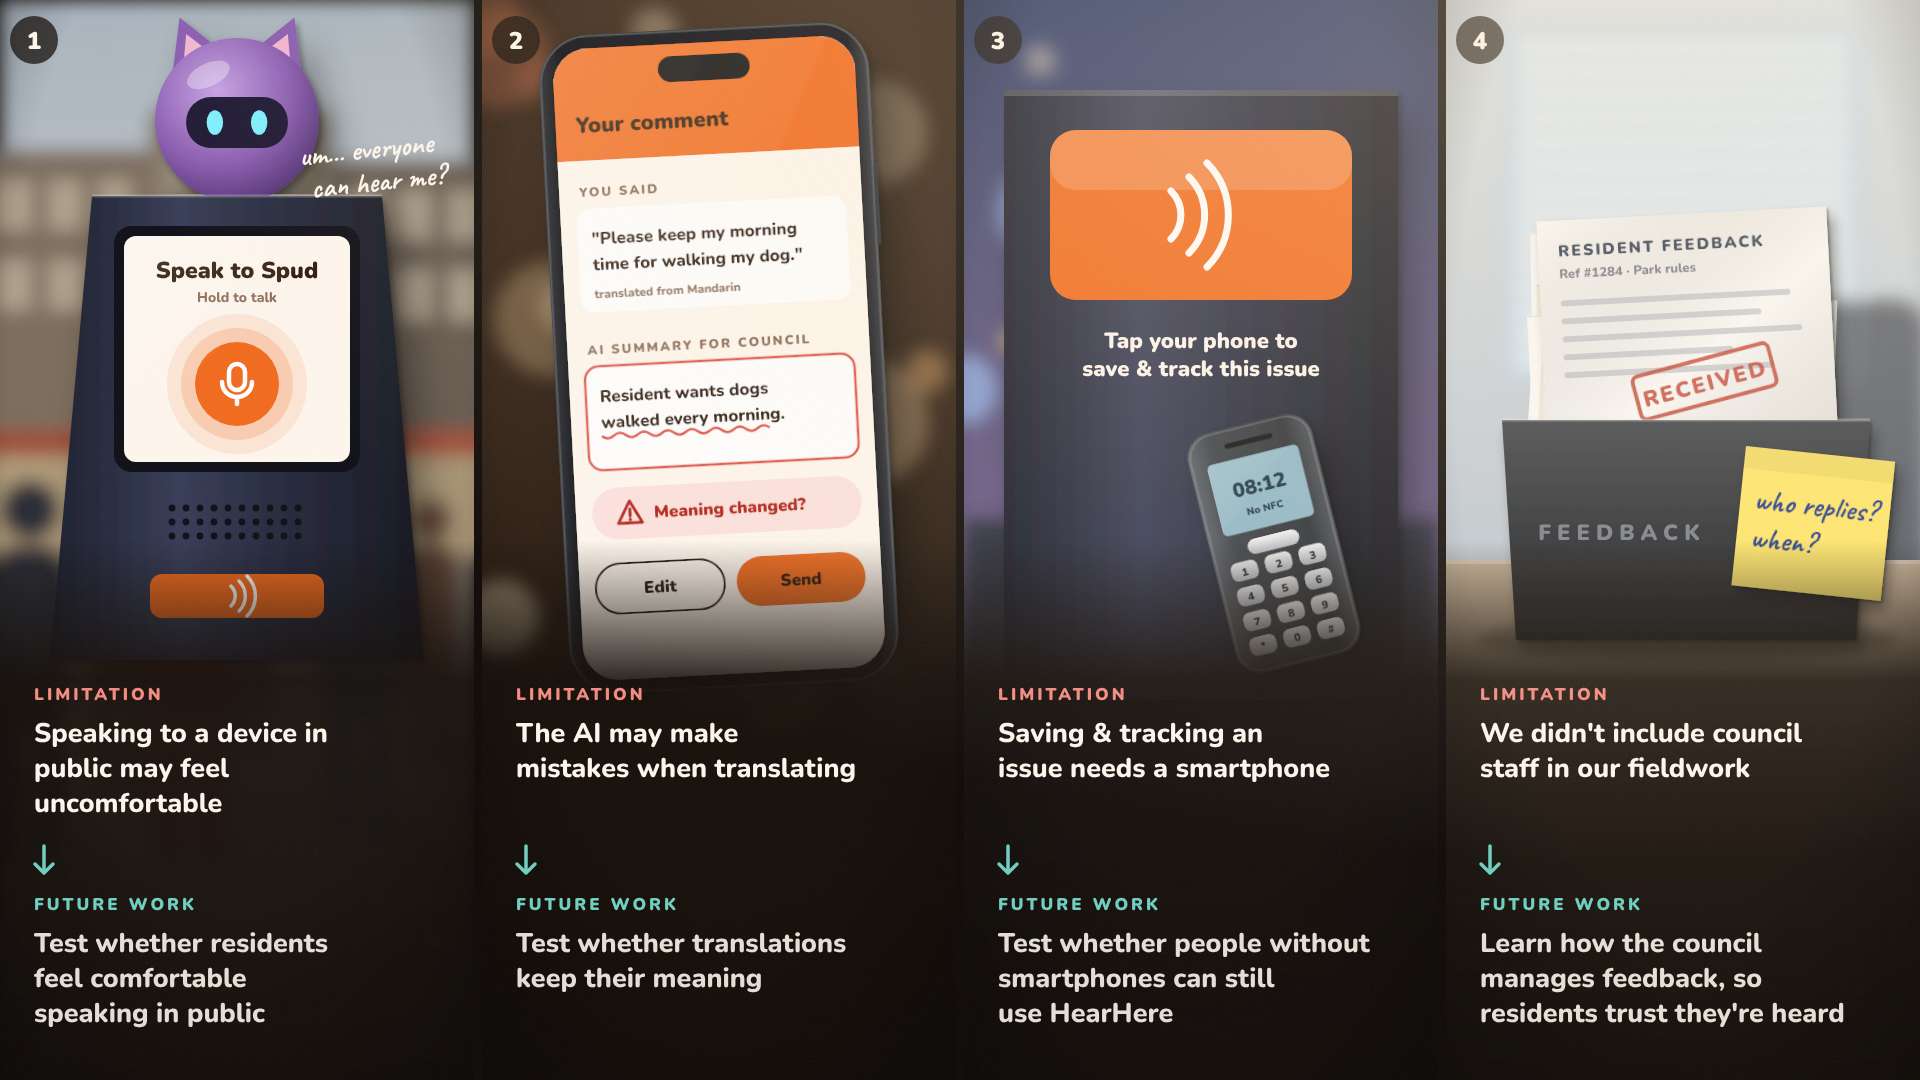
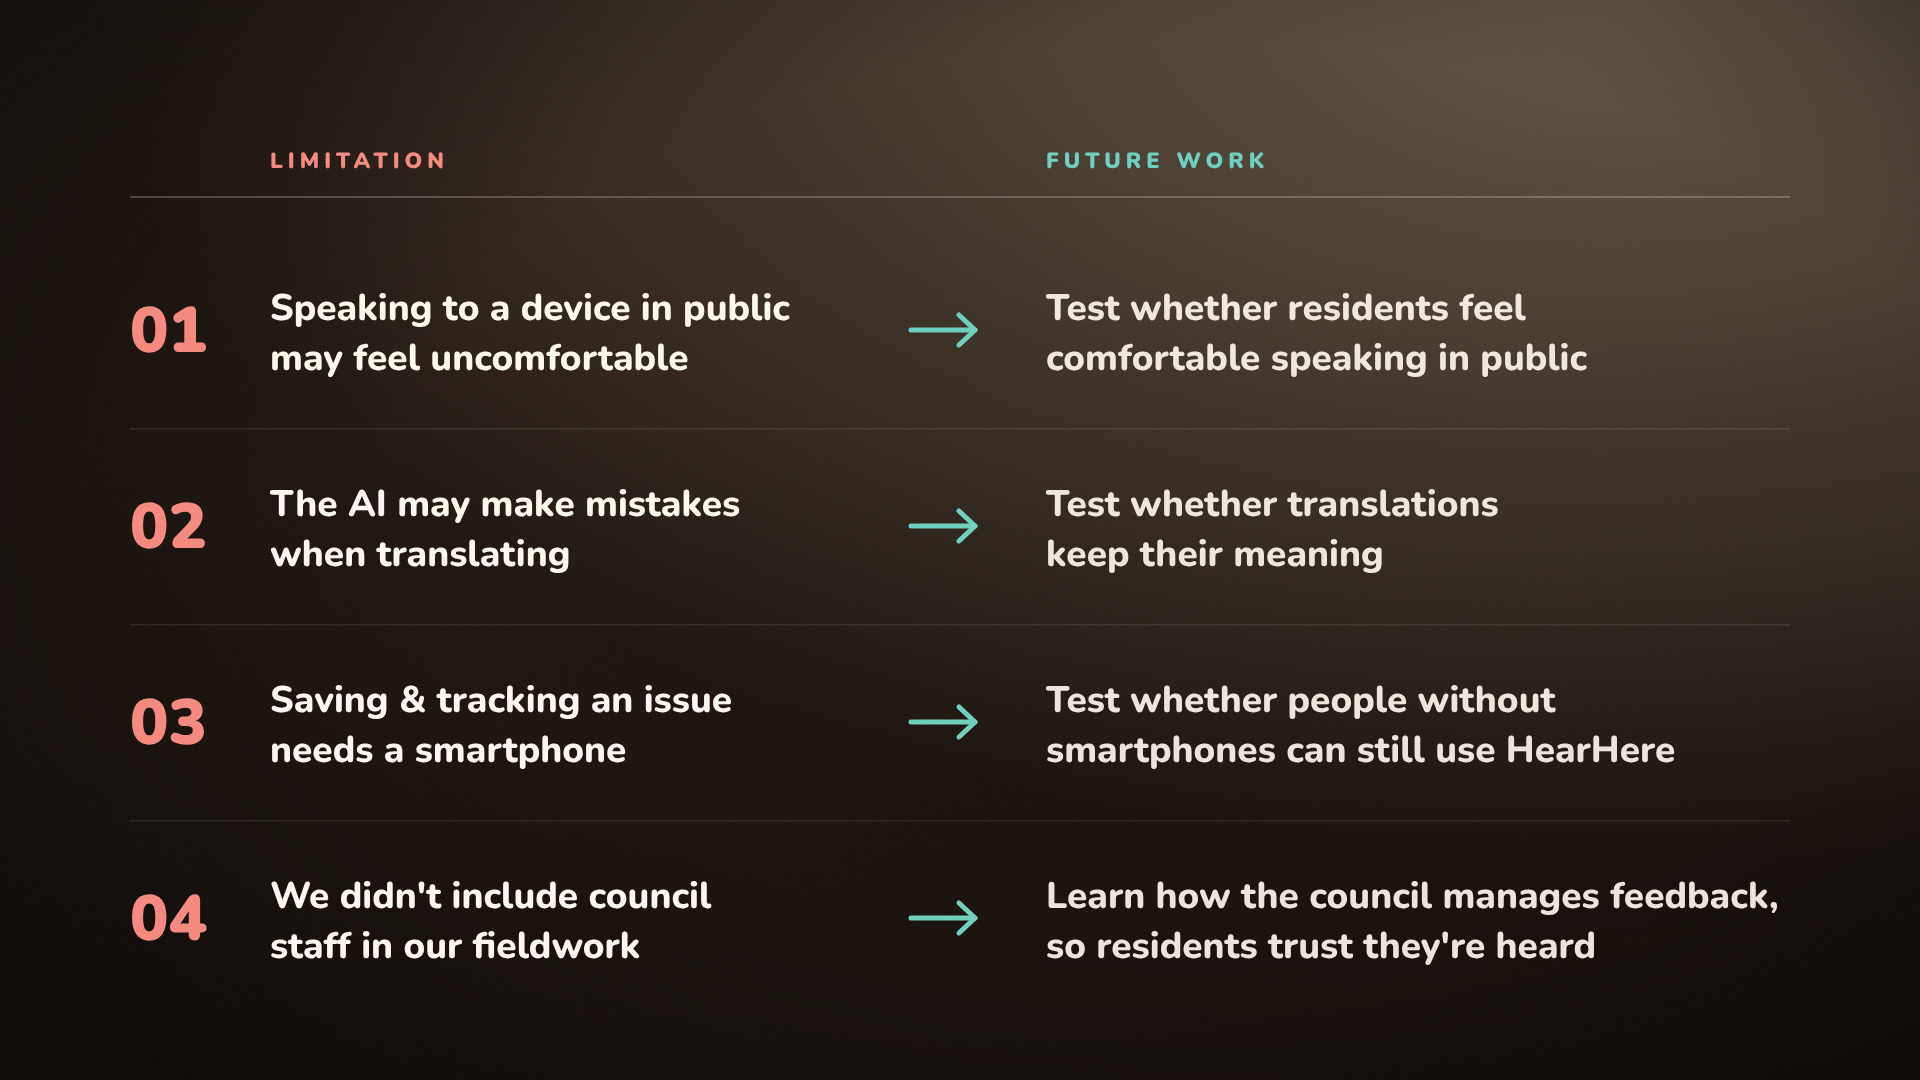
Limitations card: text only on the dark problem-card background
Claude-Session: https://claude.ai/code/session_01YLXkZryRbXP9tgZBgBqtEZ

diff --git a/video/cards/build_limits_card.js b/video/cards/build_limits_card.js
@@ -1,192 +1,47 @@
-// Full-frame (1920x1080) "Limitations & future work" card, same realistic look as the problem
-// cards: four photo-like panels, one per limitation, each captioned with the limitation and the
-// future work that answers it.  Content only, no title.
+// Full-frame (1920x1080) "Limitations & future work" card: text only, on the same dark warm
+// background as the problem cards' text panel.  Each limitation (left) points to the future work
+// that answers it (right).  No title, no pictures.
 // Build: cd video && node cards/build_limits_card.js   -> output/problem_cards/limitations_future_work.svg
 const fs = require('fs');
 const path = require('path');
-const { OUT, FONT_CSS, HAND, DEFS, EXTRA_DEFS, T, sheet, phone } = require('./build_problem_cards.js');
+const { OUT, FONT_CSS, DEFS, T } = require('./build_problem_cards.js');
 
-let seed = 5;
-const rnd = () => (seed = (seed * 16807) % 2147483647) / 2147483647;
-const PW = 474, GAP = 8;
-
+const CORAL = '#F58A80', TEAL = '#6FD0C0', CREAM = '#FFF7EE';
 const PAIRS = [
-  { lim: ['Speaking to a device in', 'public may feel', 'uncomfortable'],
-    fut: ['Test whether residents', 'feel comfortable', 'speaking in public'] },
-  { lim: ['The AI may make', 'mistakes when translating'],
+  { lim: ['Speaking to a device in public', 'may feel uncomfortable'],
+    fut: ['Test whether residents feel', 'comfortable speaking in public'] },
+  { lim: ['The AI may make mistakes', 'when translating'],
     fut: ['Test whether translations', 'keep their meaning'] },
-  { lim: ['Saving & tracking an', 'issue needs a smartphone'],
-    fut: ['Test whether people without', 'smartphones can still', 'use HearHere'] },
+  { lim: ['Saving & tracking an issue', 'needs a smartphone'],
+    fut: ['Test whether people without', 'smartphones can still use HearHere'] },
   { lim: ['We didn\'t include council', 'staff in our fieldwork'],
-    fut: ['Learn how the council', 'manages feedback, so', 'residents trust they\'re heard'] },
+    fut: ['Learn how the council manages feedback,', 'so residents trust they\'re heard'] },
 ];
 
-// blurred passer-by silhouette
-const person = (x, y, s, c) => `<g transform="translate(${x} ${y}) scale(${s})" fill="${c}"><circle cx="0" cy="-200" r="24"/><rect x="-34" y="-172" width="68" height="150" rx="28"/><rect x="-28" y="-40" width="24" height="120" rx="10"/><rect x="4" y="-40" width="24" height="120" rx="10"/></g>`;
-// the HearHere mascot head (Spud) on top of the console
-const spud = (x, y, r) => `<g transform="translate(${x} ${y})">
-  <path d="M${-r * 0.8} ${-r * 0.45} L${-r * 0.7} ${-r * 1.25} L${-r * 0.2} ${-r * 0.85}z M${r * 0.8} ${-r * 0.45} L${r * 0.7} ${-r * 1.25} L${r * 0.2} ${-r * 0.85}z" fill="#8A5BB0"/>
-  <path d="M${-r * 0.66} ${-r * 0.6} L${-r * 0.62} ${-r * 1.05} L${-r * 0.32} ${-r * 0.82}z M${r * 0.66} ${-r * 0.6} L${r * 0.62} ${-r * 1.05} L${r * 0.32} ${-r * 0.82}z" fill="#F4B6D2"/>
-  <circle r="${r}" fill="url(#spudSkin)"/>
-  <rect x="${-r * 0.62}" y="${-r * 0.28}" width="${r * 1.24}" height="${r * 0.62}" rx="${r * 0.3}" fill="#1A1530"/>
-  <ellipse cx="${-r * 0.27}" cy="${r * 0.03}" rx="${r * 0.1}" ry="${r * 0.15}" fill="#7FF0FF"/><ellipse cx="${r * 0.27}" cy="${r * 0.03}" rx="${r * 0.1}" ry="${r * 0.15}" fill="#7FF0FF"/>
-  <ellipse cx="${-r * 0.35}" cy="${-r * 0.55}" rx="${r * 0.28}" ry="${r * 0.14}" fill="#fff" opacity="0.35" transform="rotate(-25 ${-r * 0.35} ${-r * 0.55})"/></g>`;
-
-// 1. speaking in public: the pillar's talk screen, a busy street behind
-function panel1() {
-  seed = 11;
-  const shops = [[-20, 150, 170, '#8C7B6B'], [150, 110, 180, '#A2927F'], [330, 160, 170, '#6F6359']].map(([x, y, w, c]) =>
-    `<rect x="${x}" y="${y}" width="${w}" height="${560 - y}" fill="${c}"/>${Array.from({ length: 6 }, (_, k) => `<rect x="${x + 18 + (k % 3) * 50}" y="${y + 30 + Math.floor(k / 3) * 80}" width="34" height="50" fill="#F1E3C6" opacity="0.6"/>`).join('')}<rect x="${x}" y="430" width="${w}" height="26" fill="${['#B5543C', '#2F6B5E', '#C9A04A'][Math.floor(rnd() * 3)]}"/><rect x="${x + 10}" y="456" width="${w - 20}" height="104" fill="#FFE2A8" opacity="0.55"/>`).join('');
-  const crowd = [[30, 760, 1.25, '#2B2F3A'], [120, 720, 1.05, '#5A4A42'], [360, 750, 1.2, '#3E5A7A'], [430, 700, 0.9, '#6B4E3D'], [250, 690, 0.8, '#4A4F5C'], [190, 760, 1.3, '#7A3E3E']]
-    .map(([x, y, s, c]) => person(x, y, s, c)).join('');
-  const grille = Array.from({ length: 30 }, (_, k) => `<circle cx="${172 + (k % 10) * 14}" cy="${508 + Math.floor(k / 10) * 14}" r="3.4" fill="#0B0D14"/>`).join('');
-  return `<g filter="url(#blurBg)"><rect width="${PW}" height="560" fill="url(#overcast)"/>${shops}<rect y="560" width="${PW}" height="520" fill="url(#pave)"/>${crowd}</g>
-  <rect width="${PW}" height="1080" fill="#1A1410" opacity="0.15"/>
-  <g filter="url(#shadow)">
-    ${spud(237, 120, 82)}
-    <path d="M92 196 H382 L424 660 H50z" fill="url(#console)"/>
-    <path d="M92 196 H382" stroke="#fff" stroke-opacity="0.25" stroke-width="3"/>
-    <rect x="114" y="226" width="246" height="246" rx="18" fill="#0B0D14"/>
-    <rect x="124" y="236" width="226" height="226" rx="12" fill="#FFF7EE"/>
-    ${T(237, 278, 'Speak to Spud', { size: 23, w: 900, fill: '#2B1708', anchor: 'middle' })}
-    ${T(237, 302, 'Hold to talk', { size: 14, w: 800, fill: '#8A6A55', anchor: 'middle' })}
-    <circle cx="237" cy="384" r="70" fill="#F26B1D" opacity="0.12"/><circle cx="237" cy="384" r="56" fill="#F26B1D" opacity="0.2"/>
-    <circle cx="237" cy="384" r="42" fill="#F26B1D"/>
-    <g transform="translate(237 384)" fill="none" stroke="#fff" stroke-width="4.5" stroke-linecap="round"><rect x="-8" y="-20" width="16" height="26" rx="8"/><path d="M-15 -2 a15 15 0 0 0 30 0 M0 13 v7"/></g>
-    <rect x="124" y="236" width="226" height="226" rx="12" fill="url(#glass)"/>
-    ${grille}
-    <rect x="150" y="574" width="174" height="44" rx="12" fill="#F26B1D"/>
-    <g transform="translate(237 596)" fill="none" stroke="#fff" stroke-width="3.5" stroke-linecap="round"><path d="M-6 -10 a14 14 0 0 1 0 20 M2 -15 a21 21 0 0 1 0 30 M10 -20 a28 28 0 0 1 0 40"/></g>
-  </g>
-  ${T(300, 166, 'um... everyone', { ff: HAND, size: 29, w: 700, fill: '#FFF7EE', tr: 'rotate(-6 300 166)' })}
-  ${T(312, 198, 'can hear me?', { ff: HAND, size: 29, w: 700, fill: '#FFF7EE', tr: 'rotate(-6 312 198)' })}`;
-}
-
-// 2. translation mistakes: the AI summary changes what the resident meant
-function panel2() {
-  seed = 23;
-  const bokeh = Array.from({ length: 22 }, () => `<circle cx="${rnd() * PW}" cy="${rnd() * 700}" r="${20 + rnd() * 50}" fill="${['#F6B36B', '#FFD9A0', '#E07A4F', '#FFF0C8'][Math.floor(rnd() * 4)]}" opacity="${0.15 + rnd() * 0.3}"/>`).join('');
-  const ph = phone(72, 28, 330, 660, -3, (w, h) => `
-    <rect width="${w}" height="${h}" fill="#FFF7EE"/>
-    <rect width="${w}" height="112" fill="#F26B1D"/>
-    ${T(20, 84, 'Your comment', { size: 22, w: 900, fill: '#2B1708' })}
-    ${T(20, 148, 'YOU SAID', { size: 13, w: 900, fill: '#8A6A55', ls: 2 })}
-    <rect x="16" y="160" width="${w - 32}" height="104" rx="14" fill="#fff"/>
-    ${T(30, 196, '"Please keep my morning', { size: 17, w: 800, fill: '#2B1708' })}
-    ${T(30, 222, 'time for walking my dog."', { size: 17, w: 800, fill: '#2B1708' })}
-    ${T(30, 250, 'translated from Mandarin', { size: 12, w: 800, fill: '#8A6A55' })}
-    ${T(20, 306, 'AI SUMMARY FOR COUNCIL', { size: 13, w: 900, fill: '#8A6A55', ls: 2 })}
-    <rect x="16" y="318" width="${w - 32}" height="104" rx="14" fill="#fff" stroke="#E0544B" stroke-width="2.5"/>
-    ${T(30, 354, 'Resident wants dogs', { size: 17, w: 800, fill: '#2B1708' })}
-    ${T(30, 380, 'walked every morning.', { size: 17, w: 800, fill: '#2B1708' })}
-    <path d="M30 388 q6 5 12 0 t12 0 t12 0 t12 0 t12 0 t12 0 t12 0 t12 0 t12 0 t12 0 t12 0 t12 0 t12 0 t12 0" fill="none" stroke="#E0544B" stroke-width="2.5"/>
-    <g transform="translate(16 440)"><rect width="${w - 32}" height="52" rx="26" fill="#FDE2DF"/>
-      <path d="M26 36 L38 14 L50 36z" fill="none" stroke="#B42318" stroke-width="3" stroke-linejoin="round"/><path d="M38 22 v7 M38 32 v1" stroke="#B42318" stroke-width="3" stroke-linecap="round"/>
-      ${T(62, 32, 'Meaning changed?', { size: 17, w: 900, fill: '#B42318' })}</g>
-    <rect x="16" y="516" width="${(w - 44) / 2}" height="50" rx="25" fill="none" stroke="#2B1708" stroke-width="2"/>${T(16 + (w - 44) / 4, 547, 'Edit', { size: 17, w: 900, fill: '#2B1708', anchor: 'middle' })}
-    <rect x="${28 + (w - 44) / 2}" y="516" width="${(w - 44) / 2}" height="50" rx="25" fill="#F26B1D"/>${T(28 + (w - 44) * 0.75, 547, 'Send', { size: 17, w: 900, fill: '#2B1708', anchor: 'middle' })}`);
-  return `<rect width="${PW}" height="1080" fill="url(#cafe)"/><g filter="url(#blurBg)">${bokeh}</g>${ph}`;
-}
-
-// 3. no smartphone: the NFC pad next to an old keypad phone
-function panel3() {
-  seed = 37;
-  const lights = Array.from({ length: 14 }, () => `<circle cx="${rnd() * PW}" cy="${60 + rnd() * 380}" r="${10 + rnd() * 26}" fill="${['#FFD38A', '#FFE9C2', '#9EC5FF'][Math.floor(rnd() * 3)]}" opacity="${0.35 + rnd() * 0.4}"/>`).join('');
-  const keys = Array.from({ length: 12 }, (_, k) => {
-    const cx = 34 + (k % 3) * 41, cy = 168 + Math.floor(k / 3) * 30;
-    return `<rect x="${cx - 16}" y="${cy - 11}" width="32" height="22" rx="8" fill="url(#key)"/>${T(cx, cy + 6, '123456789*0#'[k], { size: 13, w: 900, fill: '#1F2937', anchor: 'middle' })}`;
-  }).join('');
-  return `<rect width="${PW}" height="1080" fill="url(#dusk3)"/><g filter="url(#blurBg)">${lights}<rect y="520" width="${PW}" height="560" fill="#2A2F3E"/></g>
-  <g filter="url(#shadow)">
-    <path d="M40 90 H434 V700 H40z" fill="url(#console)"/>
-    <rect x="40" y="90" width="394" height="6" fill="#fff" opacity="0.18"/>
-    <rect x="86" y="130" width="302" height="170" rx="26" fill="#F26B1D"/>
-    <rect x="86" y="130" width="302" height="60" rx="26" fill="#fff" opacity="0.18"/>
-    <g transform="translate(237 215)" fill="none" stroke="#fff" stroke-width="7" stroke-linecap="round"><path d="M-30 -24 a34 34 0 0 1 0 48 M-12 -38 a54 54 0 0 1 0 76 M6 -52 a74 74 0 0 1 0 104"/></g>
-    ${T(237, 348, 'Tap your phone to', { size: 22, w: 900, fill: '#FFF7EE', anchor: 'middle' })}
-    ${T(237, 376, 'save & track this issue', { size: 22, w: 900, fill: '#FFF7EE', anchor: 'middle' })}
-  </g>
-  <g transform="translate(250 418) rotate(-14 70 140) scale(0.85)" filter="url(#shadow)">
-    <rect width="150" height="290" rx="30" fill="url(#oldPhone)"/>
-    <rect x="3" y="3" width="144" height="284" rx="28" fill="none" stroke="#fff" stroke-opacity="0.18" stroke-width="2"/>
-    <rect x="46" y="18" width="58" height="6" rx="3" fill="#111"/>
-    <rect x="20" y="38" width="110" height="86" rx="6" fill="#8FB8C9"/>
-    <rect x="20" y="38" width="110" height="86" rx="6" fill="url(#glass)"/>
-    ${T(75, 82, '08:12', { size: 24, w: 900, fill: '#173042', anchor: 'middle' })}${T(75, 106, 'No NFC', { size: 12, w: 900, fill: '#173042', anchor: 'middle' })}
-    <rect x="44" y="134" width="62" height="18" rx="9" fill="url(#key)"/>
-    ${keys}
-  </g>`;
-}
-
-// 4. council side: a tray overflowing with resident feedback
-function panel4() {
-  const sheets = Array.from({ length: 9 }, (_, k) => `<g transform="translate(${92 + (k % 3) * 6 - 6} ${230 + k * 13}) rotate(${(k % 2 ? 1 : -1) * (1 + k % 4)} 150 100)"><rect width="290" height="230" fill="${k % 3 === 1 ? '#F6F1E4' : '#FFFFFF'}" filter="url(#paper)"/><rect width="290" height="1.5" fill="#000" opacity="0.08"/></g>`).join('');
-  const top = `<g transform="translate(96 214) rotate(-3 145 110)" filter="url(#shadowLow)">${sheet(290, 220, '#FFFFFF', `
-      ${T(20, 36, 'RESIDENT FEEDBACK', { size: 16, w: 900, fill: '#22344D', ls: 2 })}
-      ${T(20, 58, 'Ref #1284 · Park rules', { size: 13, w: 800, fill: '#6B7280' })}
-      ${[80, 98, 116, 134, 152].map((y, i) => `<rect x="20" y="${y}" width="${[230, 200, 240, 170, 210][i]}" height="6" rx="3" fill="#9CA3AF" opacity="0.5"/>`).join('')}
-      <g transform="translate(160 170) rotate(-12)"><rect x="-70" y="-24" width="140" height="44" rx="6" fill="none" stroke="#C0392B" stroke-width="4" opacity="0.85"/>${T(0, 8, 'RECEIVED', { size: 22, w: 900, fill: '#C0392B', anchor: 'middle', ls: 2, op: 0.85 })}</g>`)}</g>`;
-  const blinds = Array.from({ length: 14 }, (_, k) => `<rect x="70" y="${40 + k * 24}" width="334" height="14" fill="#FFFFFF" opacity="0.75"/>`).join('');
-  return `<rect width="${PW}" height="1080" fill="url(#office)"/>
-  <g filter="url(#blurBg)"><rect x="60" y="30" width="354" height="350" fill="#BFD6EA"/>${blinds}<rect x="320" y="300" width="160" height="300" rx="30" fill="#2B2F3A" opacity="0.7"/></g>
-  <rect y="560" width="${PW}" height="520" fill="url(#deskTop)"/>
-  <rect y="560" width="${PW}" height="4" fill="#fff" opacity="0.3"/>
-  <ellipse cx="240" cy="640" rx="210" ry="22" fill="#000" opacity="0.3" filter="url(#blur6)"/>
-  ${sheets}${top}
-  <g filter="url(#shadowLow)"><path d="M56 420 H424 L410 640 H70z" fill="url(#tray)"/></g>
-  <path d="M56 420 H424" stroke="#fff" stroke-opacity="0.3" stroke-width="3"/>
-  ${T(176, 540, 'FEEDBACK', { size: 22, w: 900, fill: '#9CA3AF', anchor: 'middle', ls: 6, op: 0.7 })}
-  <g transform="translate(300 446) rotate(6)" filter="url(#shadowLow)"><rect width="150" height="140" fill="#FFE768"/><rect width="150" height="22" fill="#000" opacity="0.05"/>
-    ${T(14, 62, 'who replies?', { ff: HAND, size: 30, w: 700, fill: '#1E3A8A' })}${T(14, 100, 'when?', { ff: HAND, size: 30, w: 700, fill: '#1E3A8A' })}</g>`;
-}
-
-function caption(p, i) {
-  const lh = 35;
-  let y = 700;
-  let out = `${T(34, y, 'LIMITATION', { size: 17, w: 900, fill: '#F58A80', ls: 3 })}`;
-  y += 42;
-  out += p.lim.map((l, k) => T(34, y + k * lh, l, { size: 27, w: 800, fill: '#FFF7EE' })).join('');
-  y += 2 * lh + 34;   // same height for every panel so the future-work rows line up
-  out += `<g fill="none" stroke="#6FD0C0" stroke-width="3.5" stroke-linecap="round" stroke-linejoin="round"><path d="M44 ${y} v26"/><path d="M35 ${y + 18} l9 9 l9 -9"/></g>`;
-  y += 64;
-  out += T(34, y, 'FUTURE WORK', { size: 17, w: 900, fill: '#6FD0C0', ls: 3 });
-  y += 42;
-  out += p.fut.map((l, k) => T(34, y + k * lh, l, { size: 27, w: 800, fill: '#FFF7EE', op: 0.9 })).join('');
-  return `<g transform="translate(34 40)"><circle r="24" fill="#140D08" opacity="0.75"/>${T(0, 9, String(i + 1), { size: 24, w: 900, fill: '#FFF7EE', anchor: 'middle' })}</g>${out}`;
-}
-
 function build() {
-  const scenes = [panel1, panel2, panel3, panel4];
-  const panels = PAIRS.map((p, i) => {
-    const x = i * (PW + GAP);
-    return `<svg x="${x}" y="0" width="${PW}" height="1080" viewBox="0 0 ${PW} 1080" overflow="hidden">
-      ${scenes[i]()}
-      <rect width="${PW}" height="1080" fill="url(#capShade)"/>
-      <rect width="${PW}" height="1080" fill="url(#panelVig)"/>
-      ${caption(p, i)}</svg>`;
+  const X_NUM = 130, X_LIM = 270, X_ARR = 945, X_FUT = 1046, ROW = 196, Y0 = 232;
+  const head = `${T(X_LIM, 168, 'LIMITATION', { size: 22, w: 900, fill: CORAL, ls: 5 })}
+    ${T(X_FUT, 168, 'FUTURE WORK', { size: 22, w: 900, fill: TEAL, ls: 5 })}
+    <rect x="${X_NUM}" y="196" width="${1920 - 2 * X_NUM}" height="2" fill="${CREAM}" opacity="0.22"/>`;
+  const rows = PAIRS.map((p, i) => {
+    const top = Y0 + i * ROW, mid = top + ROW / 2;
+    const lines = (ls, x, op) => ls.map((l, k) => T(x, mid - 10 + k * 50, l, { size: 37, w: 800, fill: CREAM, op })).join('');
+    return `${T(X_NUM, mid + 22, String(i + 1).padStart(2, '0'), { size: 64, w: 900, fill: CORAL })}
+      ${lines(p.lim, X_LIM, 1)}
+      <g fill="none" stroke="${TEAL}" stroke-width="5" stroke-linecap="round" stroke-linejoin="round"><path d="M${X_ARR - 34} ${mid} H${X_ARR + 30}"/><path d="M${X_ARR + 14} ${mid - 15} L${X_ARR + 30} ${mid} L${X_ARR + 14} ${mid + 15}"/></g>
+      ${lines(p.fut, X_FUT, 0.92)}
+      ${i < PAIRS.length - 1 ? `<rect x="${X_NUM}" y="${top + ROW}" width="${1920 - 2 * X_NUM}" height="1.5" fill="${CREAM}" opacity="0.1"/>` : ''}`;
   }).join('');
   return `<svg xmlns="http://www.w3.org/2000/svg" width="1920" height="1080" viewBox="0 0 1920 1080">
 <title>Limitations and future work</title>
-<defs><style>${FONT_CSS}</style>${DEFS}${EXTRA_DEFS}
-<filter id="blurBg" x="-10%" y="-10%" width="120%" height="120%"><feGaussianBlur stdDeviation="9"/></filter>
-<linearGradient id="capShade" x1="0" y1="0" x2="0" y2="1"><stop offset="0.5" stop-color="#140D08" stop-opacity="0"/><stop offset="0.63" stop-color="#140D08" stop-opacity="0.9"/><stop offset="1" stop-color="#140D08" stop-opacity="0.97"/></linearGradient>
-<radialGradient id="panelVig" cx="50%" cy="35%" r="80%"><stop offset="0.6" stop-color="#000" stop-opacity="0"/><stop offset="1" stop-color="#000" stop-opacity="0.45"/></radialGradient>
-<linearGradient id="overcast" x1="0" y1="0" x2="0" y2="1"><stop offset="0" stop-color="#C3D1DE"/><stop offset="1" stop-color="#EEF2F5"/></linearGradient>
-<linearGradient id="pave" x1="0" y1="0" x2="0" y2="1"><stop offset="0" stop-color="#A39D95"/><stop offset="1" stop-color="#5E5A55"/></linearGradient>
-<linearGradient id="console" x1="0" y1="0" x2="1" y2="0"><stop offset="0" stop-color="#1A1D2B"/><stop offset="0.35" stop-color="#363B55"/><stop offset="0.6" stop-color="#262A3E"/><stop offset="1" stop-color="#14161F"/></linearGradient>
-<radialGradient id="spudSkin" cx="38%" cy="32%" r="75%"><stop offset="0" stop-color="#C7A2E6"/><stop offset="0.6" stop-color="#8A5BB0"/><stop offset="1" stop-color="#4E2D6E"/></radialGradient>
-<linearGradient id="cafe" x1="0" y1="0" x2="0" y2="1"><stop offset="0" stop-color="#3A2618"/><stop offset="1" stop-color="#1C120B"/></linearGradient>
-<linearGradient id="dusk3" x1="0" y1="0" x2="0" y2="1"><stop offset="0" stop-color="#2C3A66"/><stop offset="0.5" stop-color="#6A5A86"/><stop offset="1" stop-color="#2A2F3E"/></linearGradient>
-<linearGradient id="oldPhone" x1="0" x2="1"><stop offset="0" stop-color="#5B616B"/><stop offset="0.2" stop-color="#3A3F47"/><stop offset="0.8" stop-color="#2A2E35"/><stop offset="1" stop-color="#4A5058"/></linearGradient>
-<linearGradient id="key" x1="0" y1="0" x2="0" y2="1"><stop offset="0" stop-color="#F3F4F6"/><stop offset="1" stop-color="#B8BEC7"/></linearGradient>
-<linearGradient id="office" x1="0" y1="0" x2="0" y2="1"><stop offset="0" stop-color="#D9E1E8"/><stop offset="1" stop-color="#A9B4C0"/></linearGradient>
-<linearGradient id="deskTop" x1="0" y1="0" x2="0" y2="1"><stop offset="0" stop-color="#C9B49A"/><stop offset="1" stop-color="#8C765C"/></linearGradient>
-<linearGradient id="tray" x1="0" y1="0" x2="0" y2="1"><stop offset="0" stop-color="#3A3F47"/><stop offset="1" stop-color="#16181C"/></linearGradient>
+<defs><style>${FONT_CSS}</style>${DEFS}
+<linearGradient id="bg" x1="0" y1="0" x2="1" y2="1"><stop offset="0" stop-color="#22170F"/><stop offset="1" stop-color="#110A06"/></linearGradient>
 </defs>
-<rect width="1920" height="1080" fill="#0E0907"/>
-${panels}
+<rect width="1920" height="1080" fill="url(#bg)"/>
 <rect width="1920" height="1080" fill="url(#warmLight)"/>
+<rect width="1920" height="1080" fill="url(#vignette)"/>
 <rect width="1920" height="1080" filter="url(#grain)"/>
+${head}${rows}
 </svg>`;
 }
 
